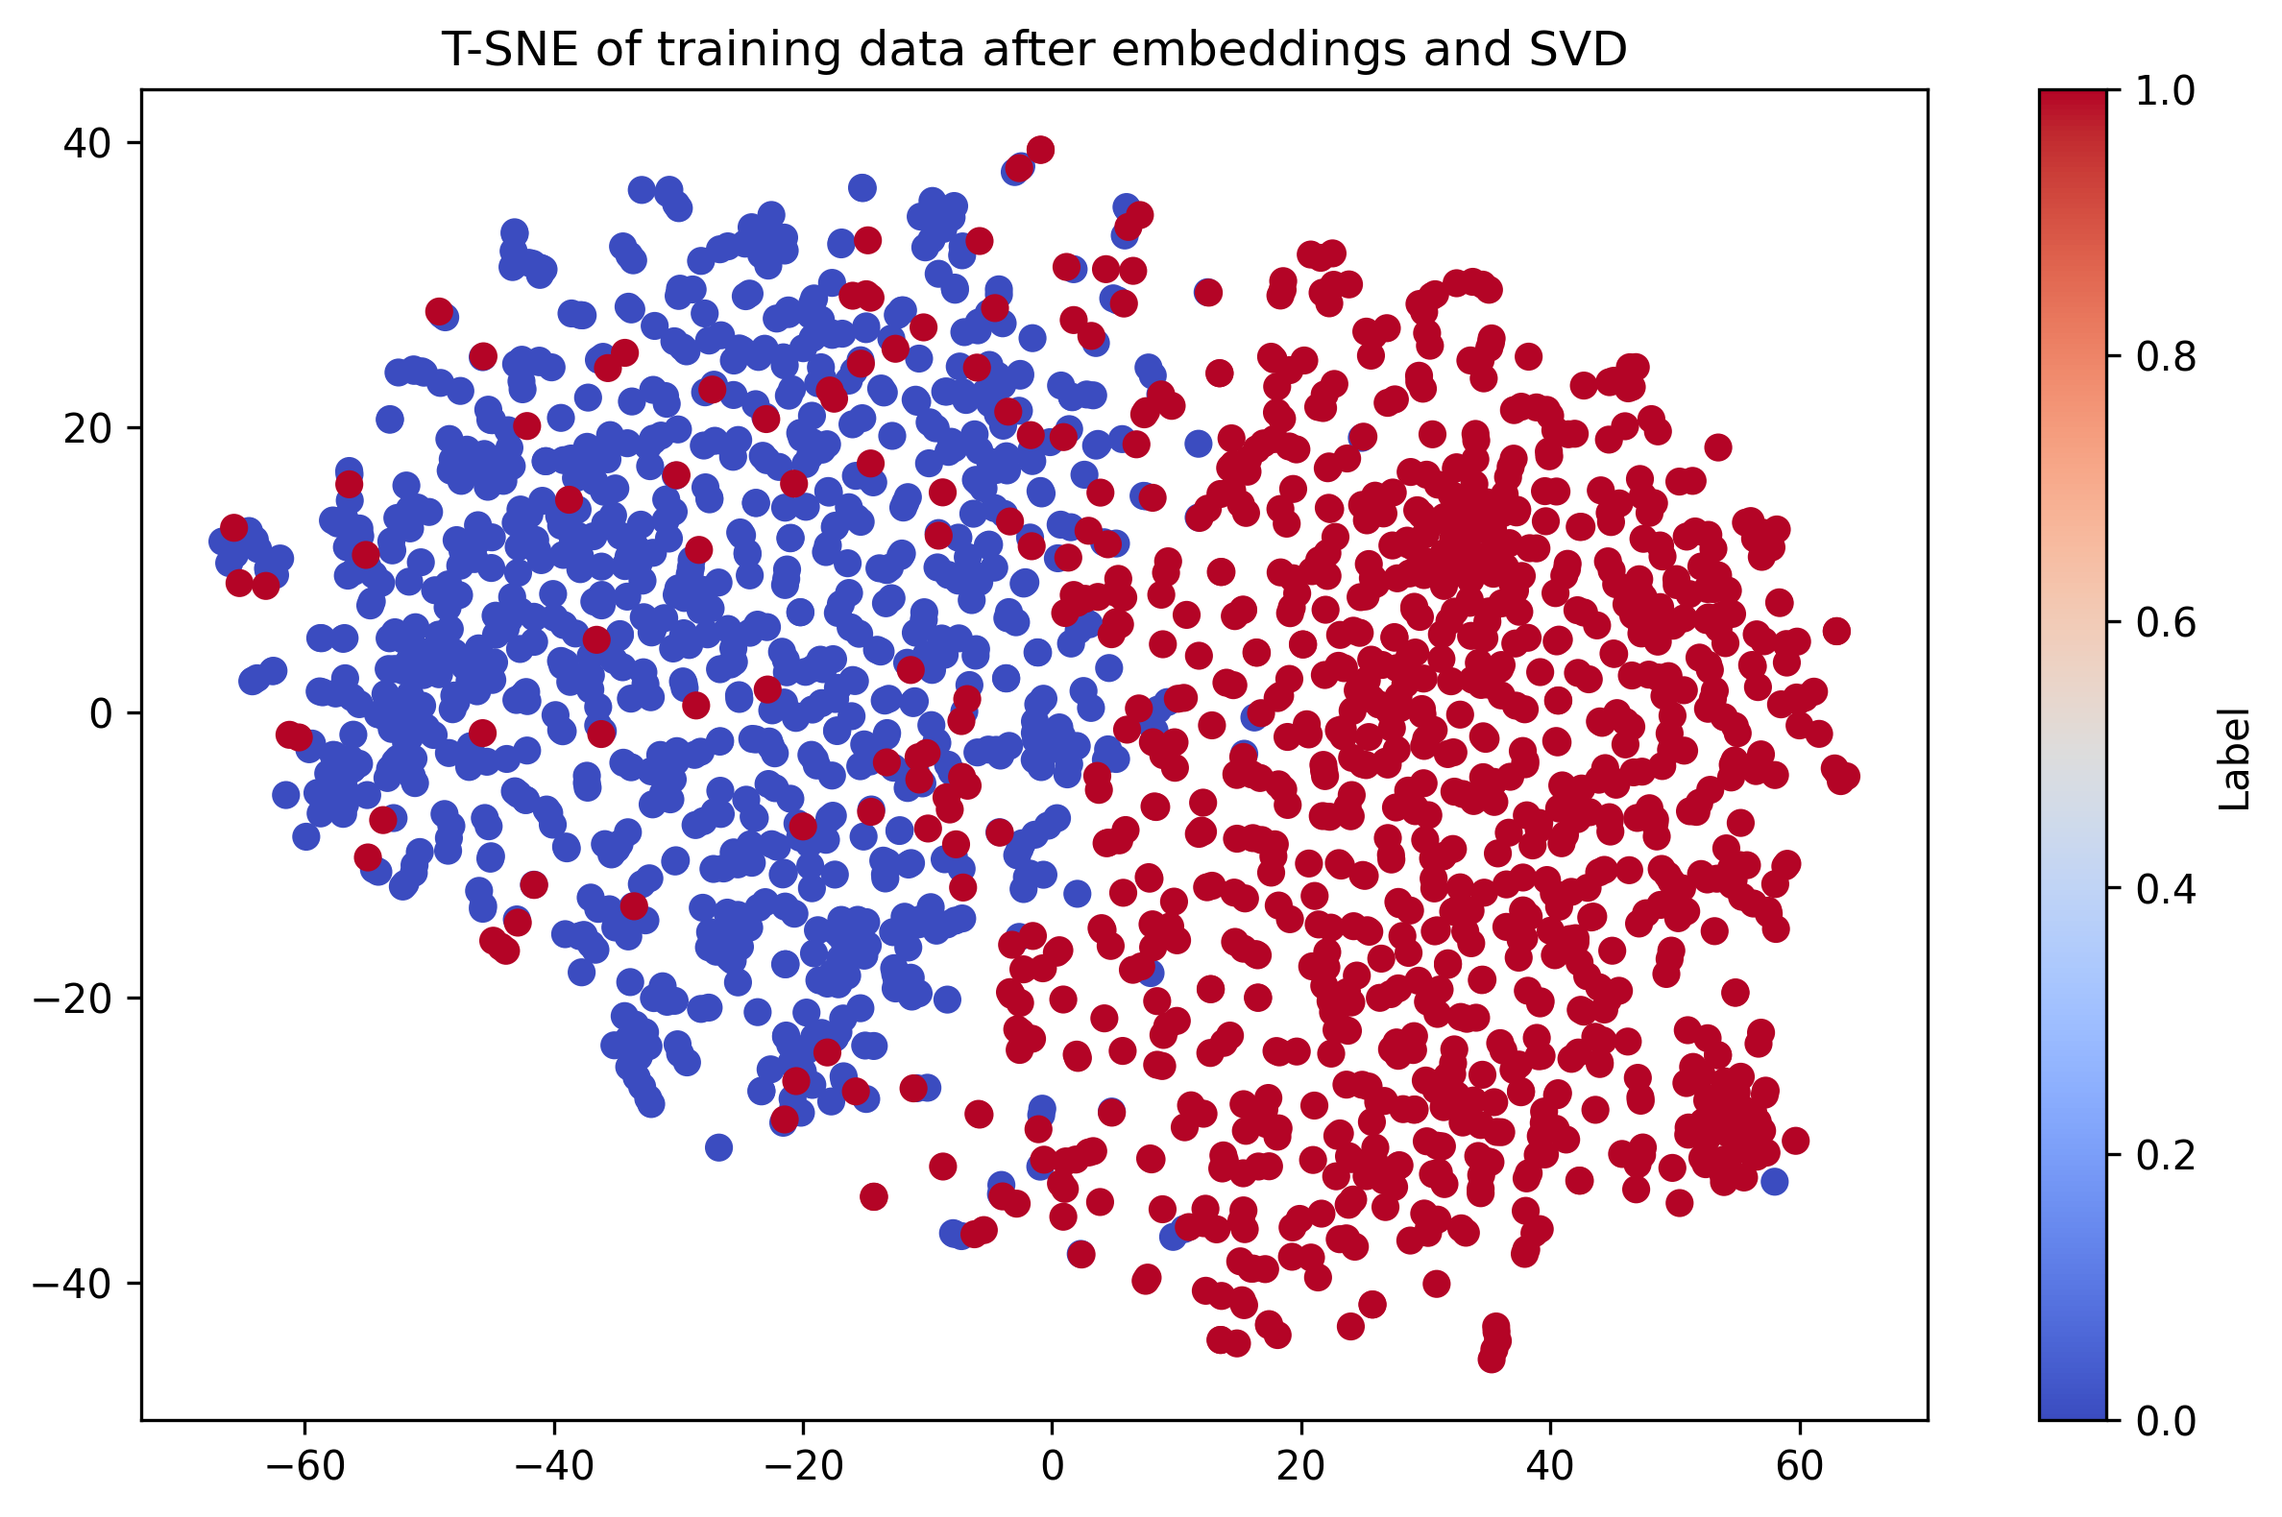
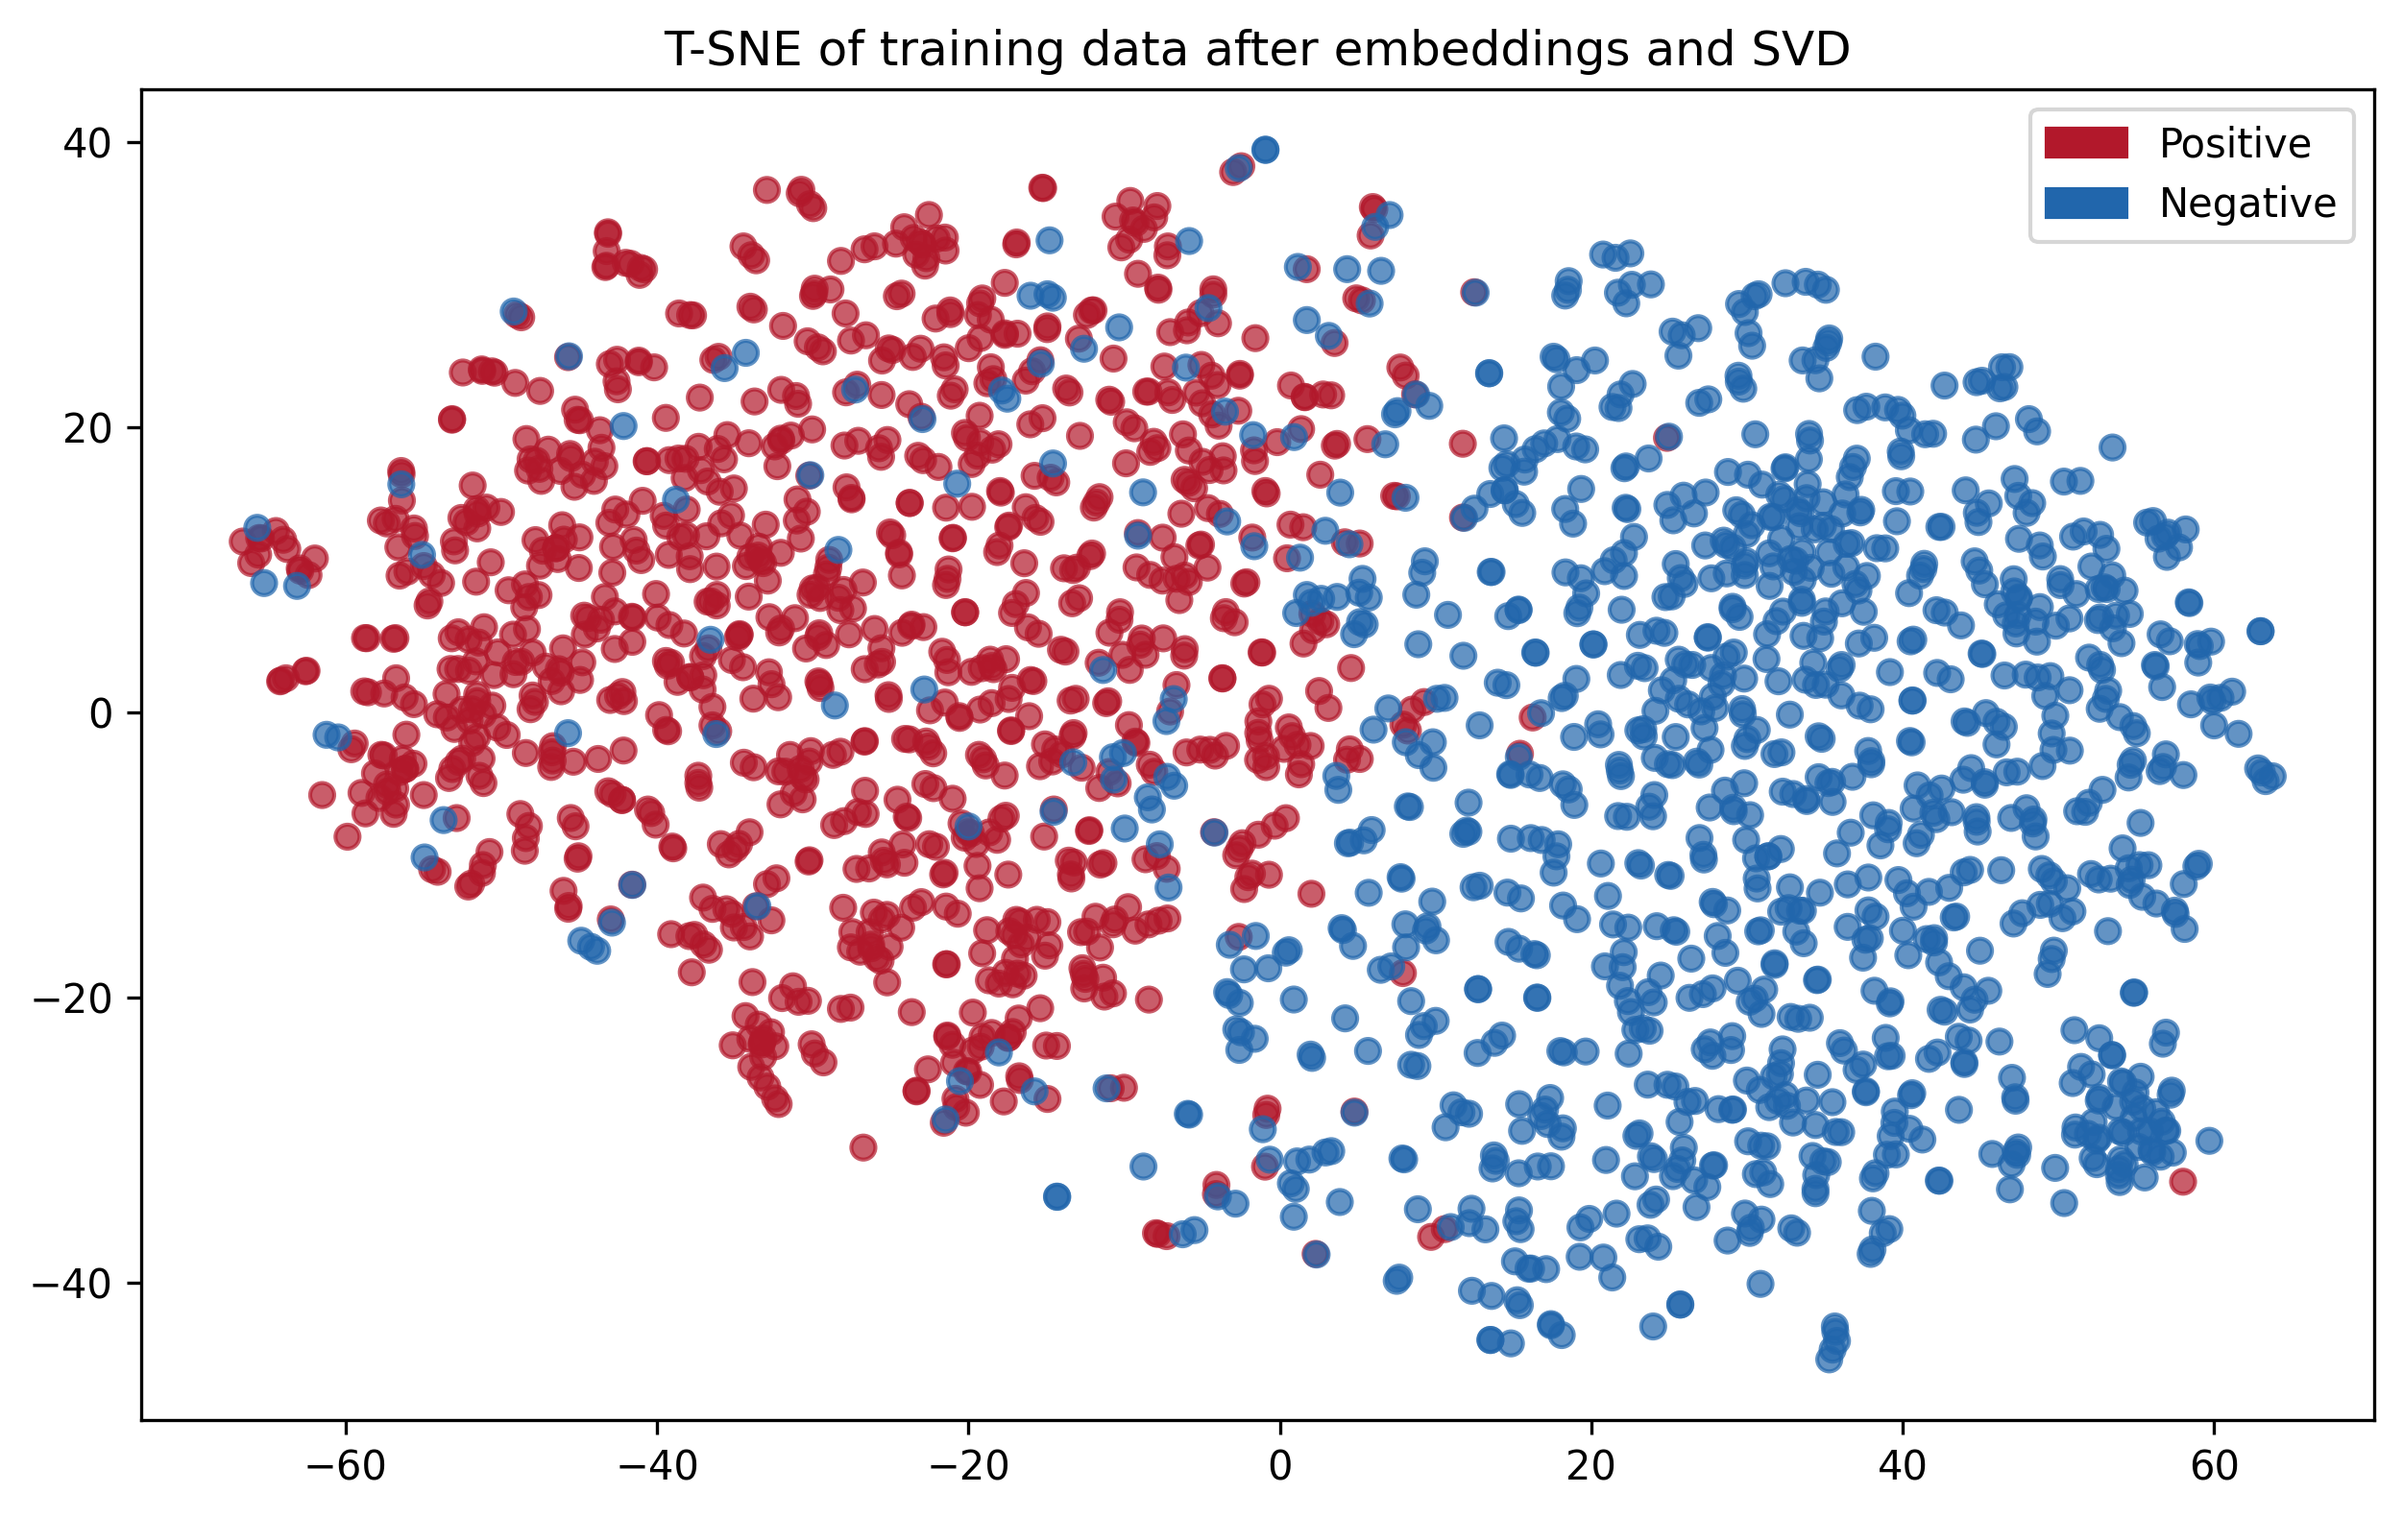
training base model done nicely and TSNE images improved

diff --git a/src/main.py b/src/main.py
@@ -37,25 +37,29 @@ print_cosine_sim_demo(Vis_X_train_embed_align, Vis_X_train_string, Vis_Y_train)
 
 #Two popular methods of visually inspecting high-D data are t-SNE and UMAP, for completeness I included both, but for speed and to see how distance might relate to meaning will only show UMAP
 #Be aware that UMAP assumes embedding data lies on a manifold and this may not be accurate
-# tsne_title1 = "T-SNE of training data after embeddings and SVD"
-# tsne_display(Vis_X_train_embed_align, Vis_Y_train, tsne_title1)
+tsne_title1 = "T-SNE of training data after embeddings and SVD"
+tsne_display(Vis_X_train_embed_align, Vis_Y_train, tsne_title1)
 umap_title1 = "UMAP of training data after embeddings and SVD"
 UMAP_output = UMAP_display(Vis_X_train_embed_align, Vis_Y_train, umap_title1)
 
 UMAP_investigate(UMAP_output, Vis_X_train_string, Vis_Y_train)
+#from the investigation it is clear there is a little bit of ambiguity in whether something is a medical query, bodily query, formed like a question etc
 
-# X_pos_train_PCA, X_pos_test_PCA, X_neg_train_PCA, X_neg_test_PCA, data_pca1 = PCA_to_reduce_embeddings(X_pos_train_embed_align, X_pos_test_embed_align, X_neg_train_embed_align, X_neg_test_embed_align)
+#Based on ANTONIO code, a PCA was then performed to reduce the dimensionality of the data
+#this is common in embeddings, but it would be useful to visualise the variance in a graph, or tune this to see what produces the best accuracy
+X_pos_train_PCA, X_pos_test_PCA, X_neg_train_PCA, X_neg_test_PCA, data_pca1 = PCA_to_reduce_embeddings(X_pos_train_embed_align, X_pos_test_embed_align, X_neg_train_embed_align, X_neg_test_embed_align)
 
-# Vis_X_train_PCA = np.concatenate((X_pos_train_PCA, X_neg_train_PCA), axis=0)
-# Vis_X_test_PCA = np.concatenate((X_pos_test_PCA, X_neg_test_PCA), axis=0)
-# tsne_title2 = "T-SNE of training data after PCA"
-# tsne_display(Vis_X_train_PCA, Vis_Y_train, tsne_title2)
-# umap_title2 = "UMAP of training data after PCA"
-# UMAP_display(Vis_X_train_PCA, Vis_Y_train, umap_title2)
+#could visualise how this affects the UMAP and t-SNE plots - commented out here for brevity
+Vis_X_train_PCA = np.concatenate((X_pos_train_PCA, X_neg_train_PCA), axis=0)
+Vis_X_test_PCA = np.concatenate((X_pos_test_PCA, X_neg_test_PCA), axis=0)
+tsne_title2 = "T-SNE of training data after PCA"
+tsne_display(Vis_X_train_PCA, Vis_Y_train, tsne_title2)
+umap_title2 = "UMAP of training data after PCA"
+UMAP_display(Vis_X_train_PCA, Vis_Y_train, umap_title2)
 
-
-# get_model()
-# model_base, X_base_train, X_base_test, Y_base_train, Y_base_test, train_base_dataset, test_base_dataset = train_base_model(X_pos_train_PCA, X_pos_test_PCA, X_neg_train_PCA, X_neg_test_PCA, Y_pos_class_train, Y_pos_class_test, Y_neg_class_train, Y_neg_class_test)
+#we pick the model we would like, and train a base model! Based off of ANTONIO and Katya's Lab
+get_model()
+model_base, X_base_train, X_base_test, Y_base_train, Y_base_test, train_base_dataset, test_base_dataset = train_base_model(X_pos_train_PCA, X_pos_test_PCA, X_neg_train_PCA, X_neg_test_PCA, Y_pos_class_train, Y_pos_class_test, Y_neg_class_train, Y_neg_class_test)
 
 
 # #lets look at a few of these

diff --git a/src/train.py b/src/train.py
@@ -11,6 +11,9 @@ from pgd_attack import pgd_attack_embedded
 
 def get_model():
     #good to keep model defined separately, initialiser seed and input_size specified in here, could take out to allow lots of runs
+    #important to note that this model outputs logits as a linear activation function is used
+    #could use another to get probabilities out but note that the metric functions will need rewriting
+    #believe that ANTONIO checks for logits which is helpful, could incorporate this
     input_size = 30
     initializer = tf.keras.initializers.GlorotUniform(seed=42)
     inputs = keras.Input(shape=(input_size,), name="embeddings")
@@ -21,24 +24,27 @@ def get_model():
     return model
 
 def train_base_model(X_pos_train_PCA, X_pos_test_PCA, X_neg_train_PCA, X_neg_test_PCA, Y_pos_class_train, Y_pos_class_test, Y_neg_class_train, Y_neg_class_test):
-    #select what you would like:
+    #select what you would like, based from Katya Lab and ANTONIO code
     batch_size = 64
     epochs = 30
     
-    #we want to combine the X data and the Y data - use concatenate so that 1D Y data doesn't get turned into column vectors which won't like later functions
+    #we want to combine the X data and the Y data
+    #use concatenate so that 1D Y data doesn't get turned into column vectors - an issue for functions
     X_train = np.concatenate((X_pos_train_PCA, X_neg_train_PCA), axis=0)
     X_test = np.concatenate((X_pos_test_PCA, X_neg_test_PCA), axis=0)
     Y_train = np.concatenate((Y_pos_class_train, Y_neg_class_train), axis=0)
     Y_test = np.concatenate((Y_pos_class_test, Y_neg_class_test), axis=0)
 
+    #from_tensor_slices automatically pairs features with correct labels so it can be directly put into model.fit
     train_dataset = tf.data.Dataset.from_tensor_slices((X_train, Y_train))
     test_dataset = tf.data.Dataset.from_tensor_slices((X_test, Y_test))
 
-    #trains on batches and uses test dataset for validation data, 
-    #not great practice maybe worth trying to implement k-folds especially if doing hyperparameter tuning
+    #trains on batches and uses test dataset for validation data
+    #worth trying to implement k-folds especially if doing hyperparameter tuning so that have separate validation data
     train_dataset = train_dataset.shuffle(buffer_size=1024).batch(batch_size)
     test_dataset = test_dataset.batch(batch_size)
     
+    #telling the function that logits are output from model so that it can apply softmax to compute cross-entropy
     optimizer = tf.keras.optimizers.legacy.Adam()
     loss_fn = tf.keras.losses.SparseCategoricalCrossentropy(from_logits=True)
     accuracy_fn = tf.keras.metrics.SparseCategoricalAccuracy()

diff --git a/src/visualise.py b/src/visualise.py
@@ -14,9 +14,15 @@ def tsne_display(X, y, title):
     tsne = TSNE(n_components=2, random_state=42)
     examples_2d = tsne.fit_transform(X)
 
+        # 0 = positive, 1 = negative
+    colors_dict = {0: '#b2182b', 1: '#2166ac'}  # dark red for positive, dark blue for negative
+    colors = [colors_dict[label] for label in y]
+
     plt.figure(figsize=(10,6))
-    plt.scatter(examples_2d[:,0], examples_2d[:,1], c=y[:], cmap='coolwarm')
-    plt.colorbar(label='Label')
+    plt.scatter(examples_2d[:,0], examples_2d[:,1], c=colors, alpha=0.7)
+    red_patch = mpatches.Patch(color='#b2182b', label='Positive')
+    blue_patch = mpatches.Patch(color='#2166ac', label='Negative')
+    plt.legend(handles=[red_patch, blue_patch])
     plt.title(title)
     plt.savefig(f"data/visualisation/{title}.png", dpi=300, bbox_inches='tight')
     plt.show()
@@ -58,7 +64,7 @@ def UMAP_investigate(X_emb_2d, Xs, y):
 
     #print out some examples of the misclustered samples to see if there is semantic ambiguity
     mis_idx = misclustered.index
-    n_queries = 10
+    n_queries = 20
     random_indices = np.random.choice(mis_idx, size=min(n_queries, len(mis_idx)), replace=False)
 
    

diff --git a/src/data.py b/src/data.py
@@ -90,11 +90,12 @@ def embed_and_align_p(X_pos_strings_train, X_neg_strings_train, X_pos_strings_te
     return X_pos_train_embed_align, X_pos_test_embed_align, X_neg_train_embed_align, X_neg_test_embed_align
 
 def PCA_to_reduce_embeddings(X_pos_train_embed_align, X_pos_test_embed_align, X_neg_train_embed_align, X_neg_test_embed_align):
-    #input size was selected as 30, but wonder how this varies!
+    #input size was selected as 30, but could tune this to see which produces the best resylts
     input_size = 30
-    #we want to add up all of the data in the training set and perform PCA on all of it (for some reason ANTONIO does test set too but isn't that data leakage?)
+    #we want to add up all of the data in the training set and perform PCA on all of it to find the right fit
+    # Be aware, ANTONIO does test set too but this then includes variance from test data, which I think would be data leakage
     all_x_for_train = np.vstack([X_pos_train_embed_align, X_neg_train_embed_align])
-    # PCA data
+    # PCA found
     data_pca = PCA(n_components=input_size).fit(all_x_for_train)
 
     #transforms each bit separately
